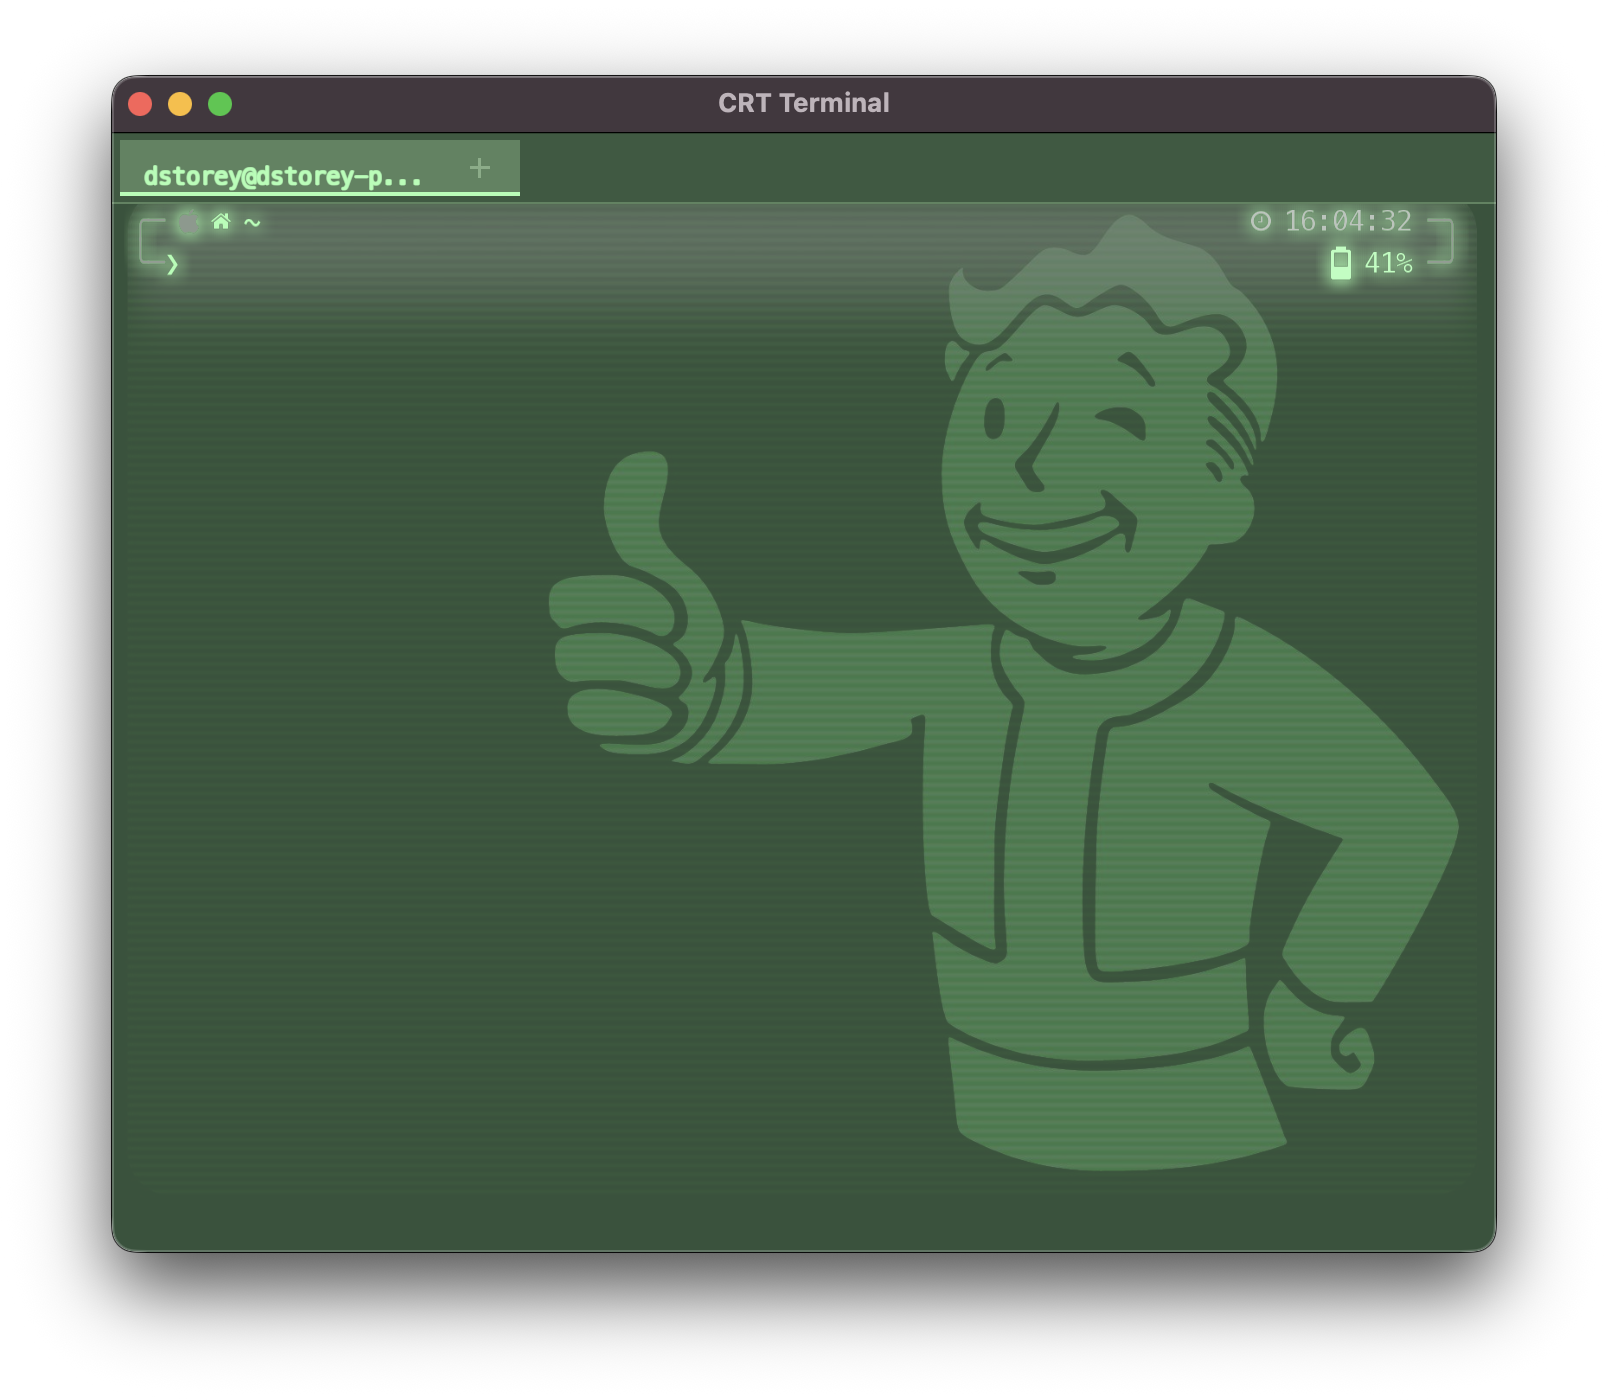
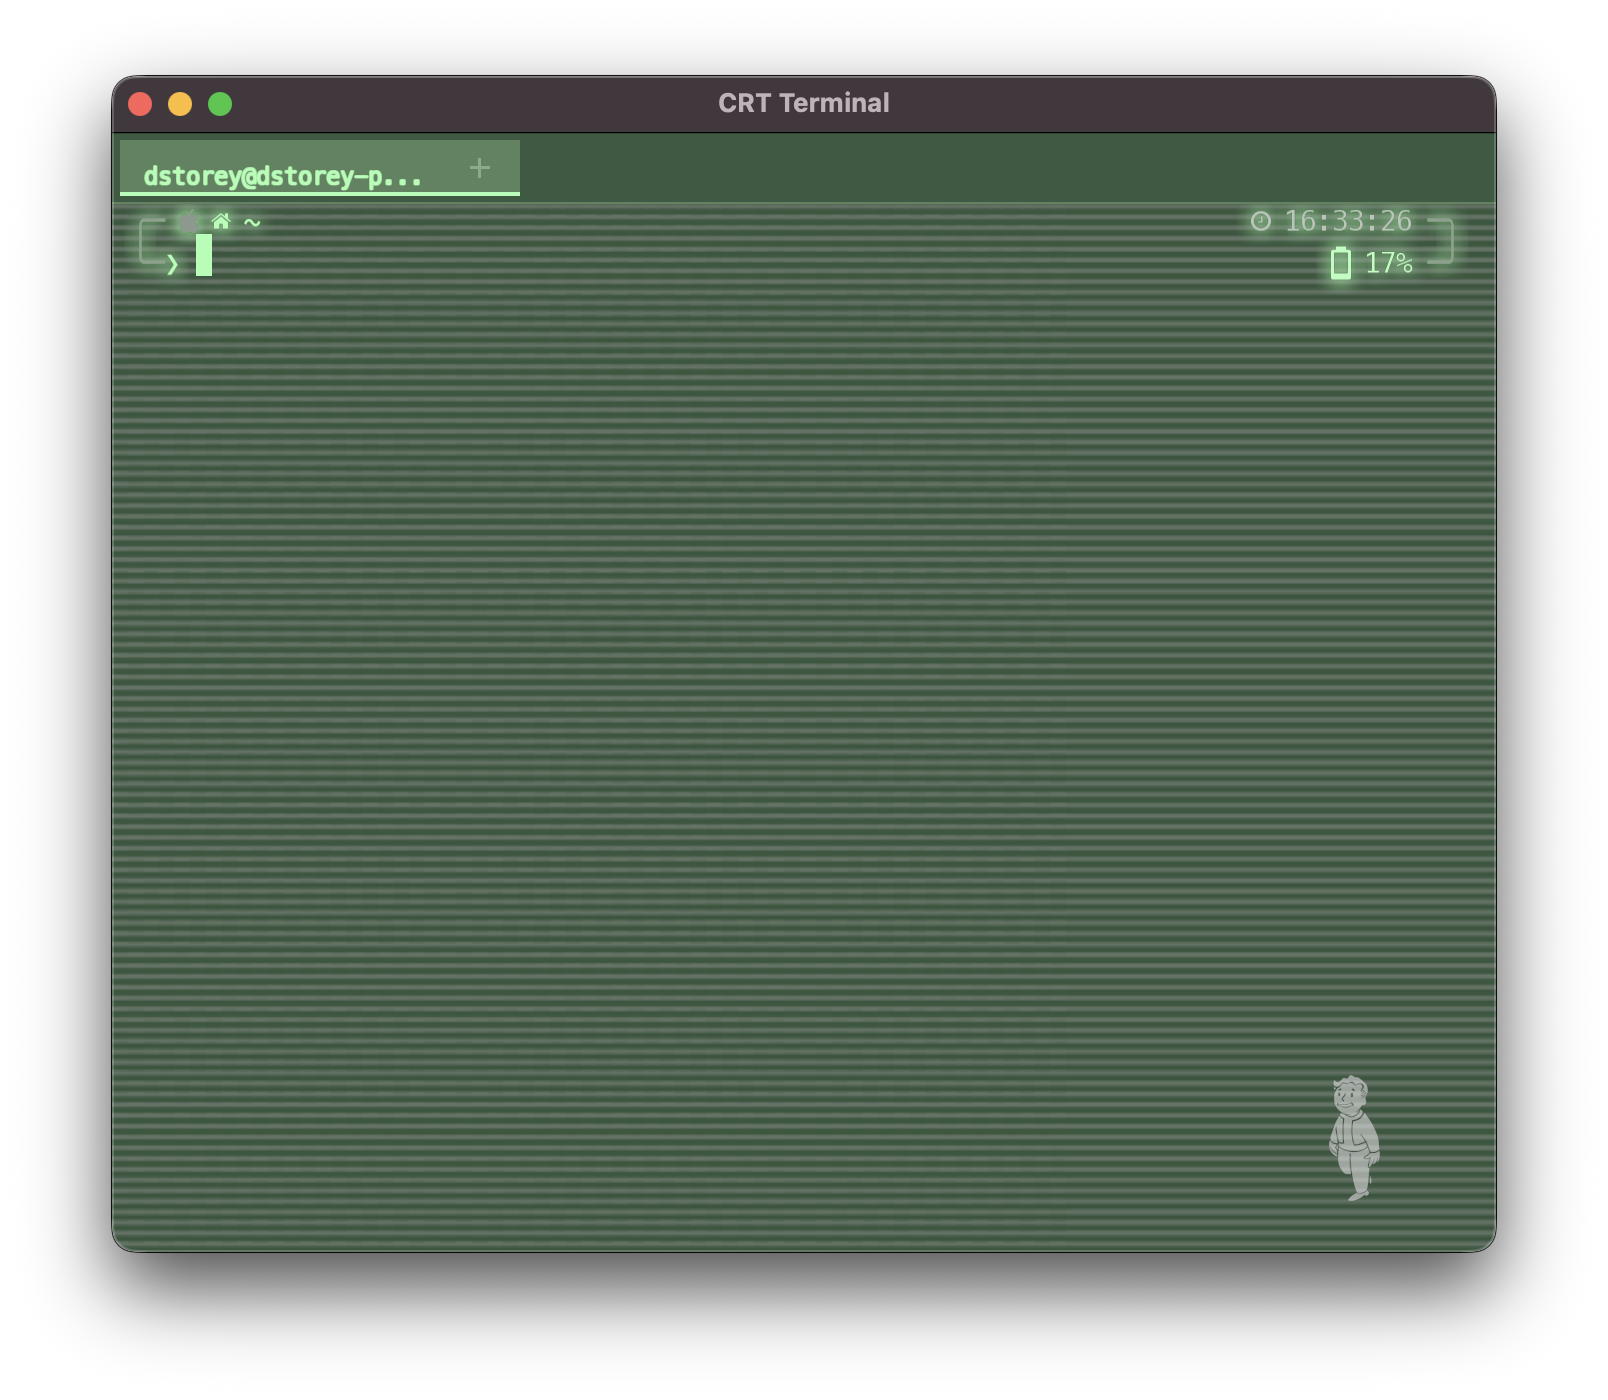
Update robco theme with animated Pip-Boy sprite and scanlines
- Add animated Vault Boy walking sprite (8 frames, transparent background)
- Add CRT scanlines overlay effect at 8% opacity
- Remove old static background images
- Update gallery screenshot

Changed region(s): [[0.0622, 0.1536, 0.9328, 0.8907]]

diff --git a/assets/themes/robco.css b/assets/themes/robco.css
@@ -13,10 +13,10 @@
     /* Pip-Boy green */
     color: #61fe71;
     background: #0a1a0d;
-    background-image: url("images/background.jpg");
-    background-size: contain;
-    background-position: center;
-    --background-opacity: 0.15;
+    background-image: url("scanlines.png");
+    background-size: cover;
+    background-repeat: repeat;
+    --background-opacity: 0.08;
 
     /* Green text glow - stronger for visibility */
     text-shadow: 0 0 15px rgba(97, 254, 113, 0.5);
@@ -37,18 +37,23 @@
 }
 
 :terminal::backdrop {
-    /* Disable grid - image has its own scanlines */
+    /* Disable grid */
     --grid-enabled: false;
 
-    /* CRT post-processing - disabled due to redraw issues
-    --crt-enabled: true;
-    --crt-scanline-intensity: 0.08;
-    --crt-scanline-frequency: 1.0;
-    --crt-curvature: 0.02;
-    --crt-vignette: 0.25;
-    --crt-chromatic-aberration: 0.2;
-    --crt-flicker: 0.01;
-    */
+    /* Animated Pip-Boy sprite - walking Vault Boy */
+    --sprite-enabled: true;
+    --sprite-path: "pipboy-sprite.png";
+    --sprite-frame-width: 320;
+    --sprite-frame-height: 240;
+    --sprite-columns: 8;
+    --sprite-rows: 1;
+    --sprite-frame-count: 8;
+    --sprite-fps: 10;
+    --sprite-scale: 0.8;
+    --sprite-opacity: 0.35;
+    --sprite-motion: none;
+    --sprite-motion-speed: 0;
+    --sprite-position: bottom-right;
 }
 
 /* ANSI 16-color palette - Pip-Boy green monochrome */
